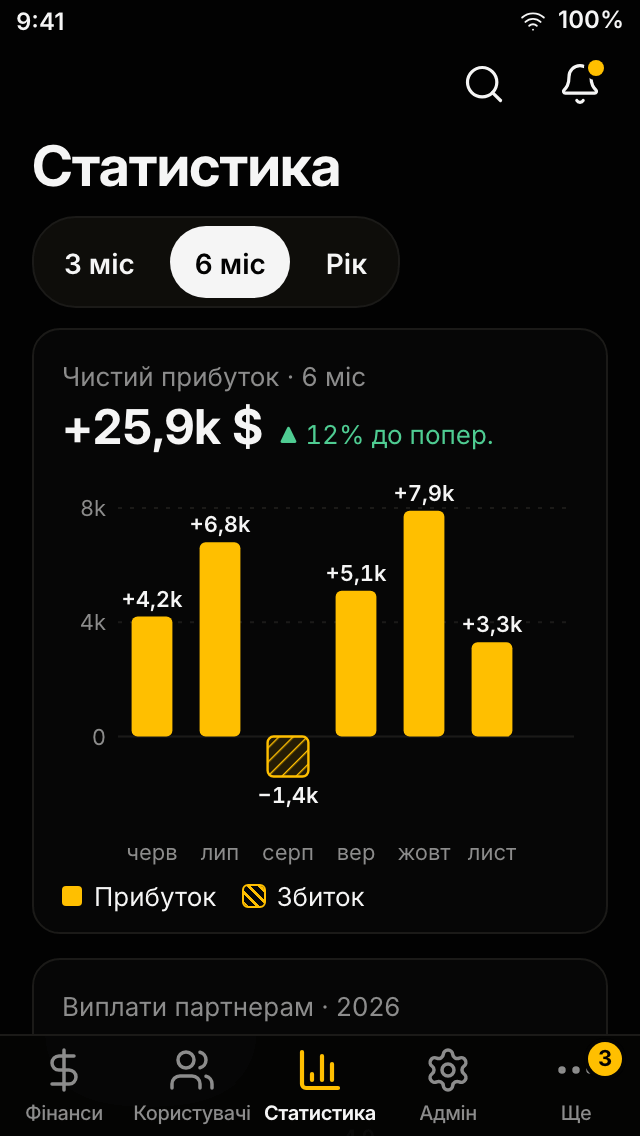
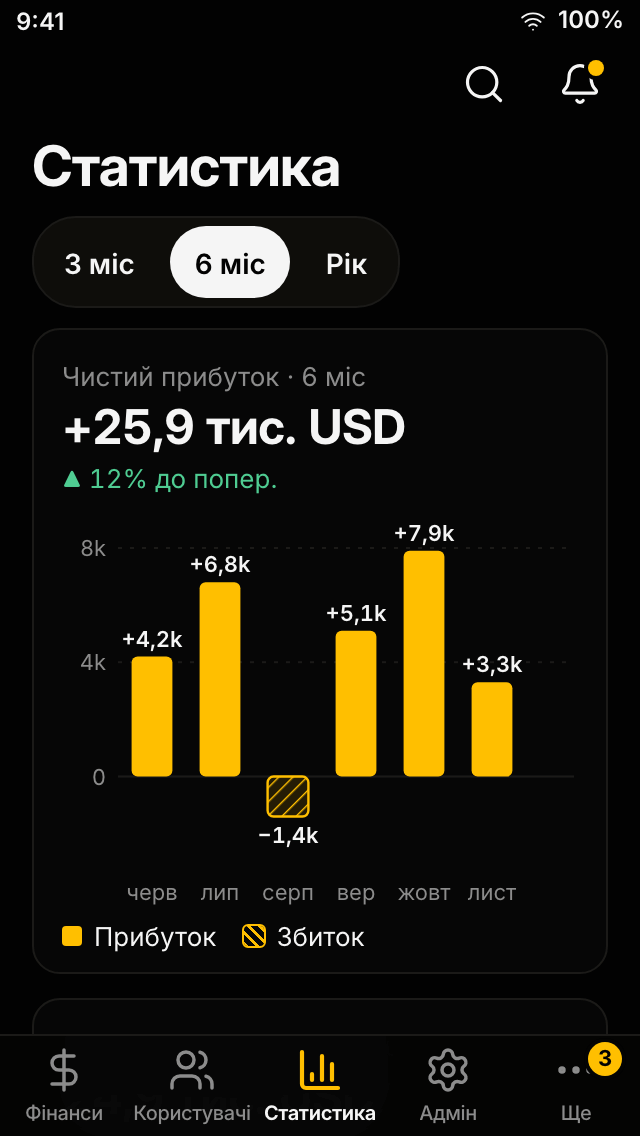
wip: docs(design): aria-disabled in flight, compact amounts keep the code (R5 E)

diff --git a/docs/design/foundation.md b/docs/design/foundation.md
@@ -154,7 +154,8 @@ xl 14). One step is added for sheets.
 («−1 250,50 USD», «320,00 USDT»): uk grouping and a decimal comma, U+2212 for the minus, the ISO code
 after a non-breaking space; never a `$` symbol (USD and USDT would both read as `$`). This is the
 product formatter `formatMoney` (`packages/shared/src/i18n/format.ts`); every frame, header and row
-uses it.
+uses it. A compact amount (a chart total or a KPI caption with no room) keeps the code and the uk
+compact word: «+25,9 тис. USD», «1,2 млн USD», never «25,9k $».
 
 | Role         | Mobile (size/line, weight) | Desktop (size/line, weight) | Use                                         |
 | ------------ | -------------------------- | --------------------------- | ------------------------------------------- |
@@ -321,8 +322,8 @@ reference widths below. Mobile-first: the base is mobile, scale up with `sm` / `
 ## 11. Interaction rules (spec §4.5b, binding for every screen)
 
 - **Never block.** Input feedback < 100 ms. Writes are optimistic where the action is reversible.
-- **Finance writes** are sent immediately. No double submit (the submit control disables while in
-  flight). **No auto-retry of money creates.** A form that already sends an idempotency key is shown
+- **Finance writes** are sent immediately. No double submit (while in flight the submit control is
+  `aria-disabled="true"`, never `disabled`: it ignores taps and stays announced; primitives-v2 §4). **No auto-retry of money creates.** A form that already sends an idempotency key is shown
   optimistically, with rollback and a visible error, and an unknown outcome may be resubmitted only with
   the same key.
 - **Carve-out — the four forms without a key** (expense, admin-income, admin-transfer, company
